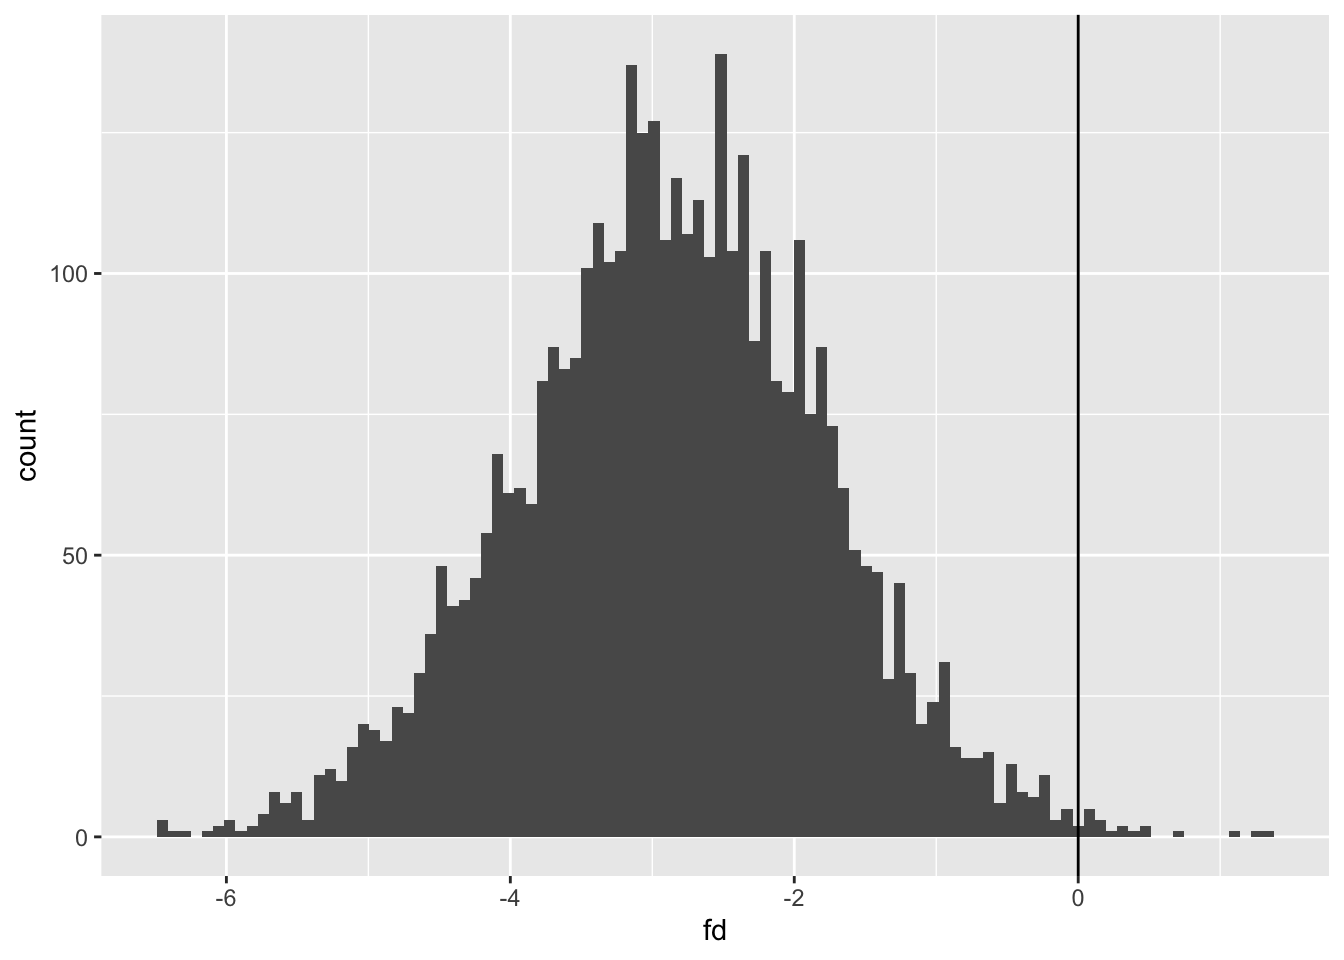
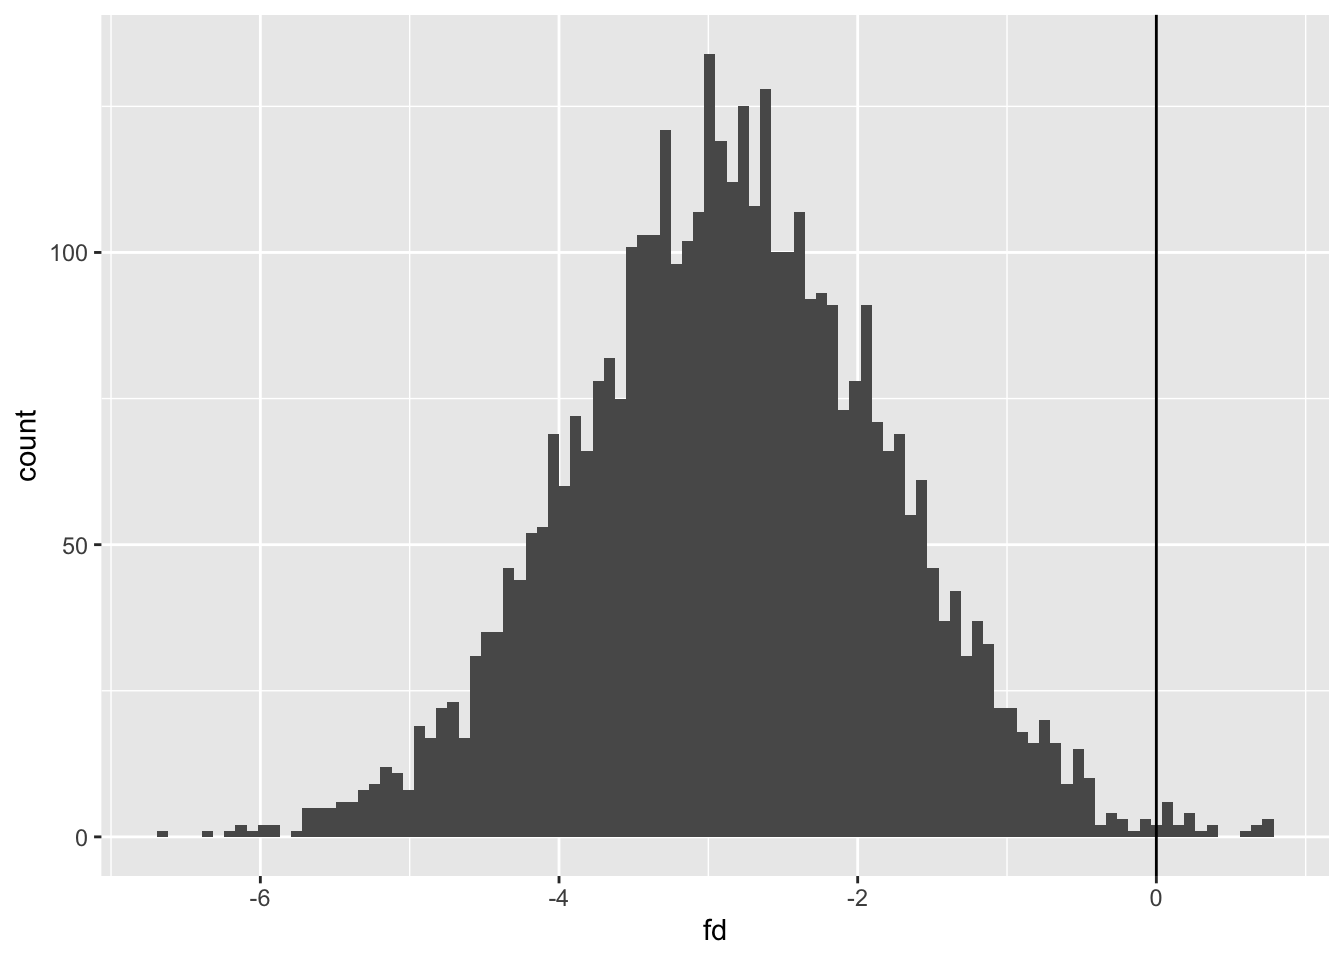
Built site for gh-pages

diff --git a/posts/glms/lms-are-glms-part-13/index.html b/posts/glms/lms-are-glms-part-13/index.html
@@ -234,7 +234,7 @@ pre > code.sourceCode > span > a:first-child::before { text-decoration: underlin
 <h2 class="anchored" data-anchor-id="on-marbles-and-jumping-beans">On marbles and jumping beans</h2>
 <p><a href="../../../posts/glms/lms-are-glms-part-05/index.html">Post five</a> introduced Bayes’ Rule and the Likelihood axiom. It pointed out that, at heart, Bayes’ Rule is a way of expressing <strong>that</strong> given <strong>this</strong> in terms of <strong>this</strong> given <strong>that</strong>; and that Likelihood is also a claim about how <strong>that</strong> given <strong>this</strong> relates to <strong>this</strong> given <strong>that</strong>. More specifically, the claim of Likelihood is:</p>
 <blockquote class="blockquote">
-<p>The likelihood of the model given the data is proportional to the likelihood of the data given the model.</p>
+<p>The likelihood of the model given the data is proportional to the probability of the data given the model.</p>
 </blockquote>
 <p>There are two aspects to the model: firstly its <em>structure</em>; secondly its <em>parameters</em>. The structure includes the type of statistical model - whether it is a standard linear regression, negative binomial regression, logistic regression, Poisson regression model and so on - and also the specific types of columns from the dataset selected as either predictor variables (<span class="math inline">\(X\)</span>) or response variables (<span class="math inline">\(Y\)</span>). It is only after both the higher level structure of the model family, and the lower level structure of the data inputs (what’s being regressed on what?) have been decided that the Likelihood theory is used.</p>
 <p>And how is Likelihood theory used? Well, it defines a <em>landscape</em> over which an algorithm searches. This landscape has as many dimensions as there are parameters to fit. Where there are just two parameters, <span class="math inline">\(\beta_0\)</span> and <span class="math inline">\(\beta_1\)</span> to fit, we can visualise this landscape using something like a contour plot, with <span class="math inline">\(\beta_0\)</span> as latitude, <span class="math inline">\(\beta_1\)</span> as longitude, and the likelihood at this position its elevation or depth. Each possible joint value <span class="math inline">\(\beta = \{\beta_0, \beta_1\}\)</span> which the algorithm might wish to propose leads to a different long-lat coordinate over the surface, and each coordinate has a different elevation or depth. Although we can’t see beyond three dimensions (latitude, longitude, and elevation/depth), mathematics has no problem extending the concept of multidimensional space into far more dimensions than we can see or meaningfully comprehenend. If a model has ten parameters to fit, for example, the likelihood search space really is ten dimensional, and so on.</p>
@@ -353,8 +353,8 @@ F-statistic:  64.5 on 3 and 56 DF,  p-value: &lt; 2.2e-16</code></pre>
 <pre><code>
 SAMPLING FOR MODEL 'continuous' NOW (CHAIN 1).
 Chain 1: 
-Chain 1: Gradient evaluation took 4.2e-05 seconds
-Chain 1: 1000 transitions using 10 leapfrog steps per transition would take 0.42 seconds.
+Chain 1: Gradient evaluation took 0.000898 seconds
+Chain 1: 1000 transitions using 10 leapfrog steps per transition would take 8.98 seconds.
 Chain 1: Adjust your expectations accordingly!
 Chain 1: 
 Chain 1: 
@@ -371,15 +371,15 @@ Chain 1: Iteration: 1600 / 2000 [ 80%]  (Sampling)
 Chain 1: Iteration: 1800 / 2000 [ 90%]  (Sampling)
 Chain 1: Iteration: 2000 / 2000 [100%]  (Sampling)
 Chain 1: 
-Chain 1:  Elapsed Time: 0.037 seconds (Warm-up)
-Chain 1:                0.037 seconds (Sampling)
-Chain 1:                0.074 seconds (Total)
+Chain 1:  Elapsed Time: 0.031 seconds (Warm-up)
+Chain 1:                0.032 seconds (Sampling)
+Chain 1:                0.063 seconds (Total)
 Chain 1: 
 
 SAMPLING FOR MODEL 'continuous' NOW (CHAIN 2).
 Chain 2: 
-Chain 2: Gradient evaluation took 7e-06 seconds
-Chain 2: 1000 transitions using 10 leapfrog steps per transition would take 0.07 seconds.
+Chain 2: Gradient evaluation took 5e-06 seconds
+Chain 2: 1000 transitions using 10 leapfrog steps per transition would take 0.05 seconds.
 Chain 2: Adjust your expectations accordingly!
 Chain 2: 
 Chain 2: 
@@ -396,15 +396,15 @@ Chain 2: Iteration: 1600 / 2000 [ 80%]  (Sampling)
 Chain 2: Iteration: 1800 / 2000 [ 90%]  (Sampling)
 Chain 2: Iteration: 2000 / 2000 [100%]  (Sampling)
 Chain 2: 
-Chain 2:  Elapsed Time: 0.034 seconds (Warm-up)
-Chain 2:                0.03 seconds (Sampling)
-Chain 2:                0.064 seconds (Total)
+Chain 2:  Elapsed Time: 0.032 seconds (Warm-up)
+Chain 2:                0.034 seconds (Sampling)
+Chain 2:                0.066 seconds (Total)
 Chain 2: 
 
 SAMPLING FOR MODEL 'continuous' NOW (CHAIN 3).
 Chain 3: 
-Chain 3: Gradient evaluation took 7e-06 seconds
-Chain 3: 1000 transitions using 10 leapfrog steps per transition would take 0.07 seconds.
+Chain 3: Gradient evaluation took 3e-06 seconds
+Chain 3: 1000 transitions using 10 leapfrog steps per transition would take 0.03 seconds.
 Chain 3: Adjust your expectations accordingly!
 Chain 3: 
 Chain 3: 
@@ -421,15 +421,15 @@ Chain 3: Iteration: 1600 / 2000 [ 80%]  (Sampling)
 Chain 3: Iteration: 1800 / 2000 [ 90%]  (Sampling)
 Chain 3: Iteration: 2000 / 2000 [100%]  (Sampling)
 Chain 3: 
-Chain 3:  Elapsed Time: 0.03 seconds (Warm-up)
-Chain 3:                0.029 seconds (Sampling)
-Chain 3:                0.059 seconds (Total)
+Chain 3:  Elapsed Time: 0.032 seconds (Warm-up)
+Chain 3:                0.031 seconds (Sampling)
+Chain 3:                0.063 seconds (Total)
 Chain 3: 
 
 SAMPLING FOR MODEL 'continuous' NOW (CHAIN 4).
 Chain 4: 
-Chain 4: Gradient evaluation took 1.1e-05 seconds
-Chain 4: 1000 transitions using 10 leapfrog steps per transition would take 0.11 seconds.
+Chain 4: Gradient evaluation took 5e-06 seconds
+Chain 4: 1000 transitions using 10 leapfrog steps per transition would take 0.05 seconds.
 Chain 4: Adjust your expectations accordingly!
 Chain 4: 
 Chain 4: 
@@ -446,9 +446,9 @@ Chain 4: Iteration: 1600 / 2000 [ 80%]  (Sampling)
 Chain 4: Iteration: 1800 / 2000 [ 90%]  (Sampling)
 Chain 4: Iteration: 2000 / 2000 [100%]  (Sampling)
 Chain 4: 
-Chain 4:  Elapsed Time: 0.03 seconds (Warm-up)
-Chain 4:                0.036 seconds (Sampling)
-Chain 4:                0.066 seconds (Total)
+Chain 4:  Elapsed Time: 0.033 seconds (Warm-up)
+Chain 4:                0.031 seconds (Sampling)
+Chain 4:                0.064 seconds (Total)
 Chain 4: </code></pre>
 </div>
 <details>
@@ -470,26 +470,26 @@ Model Info:
 Estimates:
                    mean   sd   10%   50%   90%
 (Intercept)      20.7    0.7 19.8  20.7  21.6 
-log(dose)         9.3    1.3  7.7   9.3  10.9 
-suppVC           -3.7    1.0 -5.0  -3.7  -2.5 
-log(dose):suppVC  3.8    1.8  1.5   3.8   6.1 
-sigma             3.8    0.4  3.3   3.8   4.3 
+log(dose)         9.3    1.2  7.7   9.3  10.8 
+suppVC           -3.7    1.0 -4.9  -3.7  -2.5 
+log(dose):suppVC  3.8    1.7  1.6   3.8   6.0 
+sigma             3.8    0.4  3.4   3.8   4.3 
 
 Fit Diagnostics:
            mean   sd   10%   50%   90%
-mean_PPD 18.8    0.7 18.0  18.8  19.7 
+mean_PPD 18.8    0.7 17.9  18.8  19.7 
 
 The mean_ppd is the sample average posterior predictive distribution of the outcome variable (for details see help('summary.stanreg')).
 
 MCMC diagnostics
                  mcse Rhat n_eff
-(Intercept)      0.0  1.0  3497 
-log(dose)        0.0  1.0  2271 
-suppVC           0.0  1.0  3518 
-log(dose):suppVC 0.0  1.0  2228 
-sigma            0.0  1.0  3287 
-mean_PPD         0.0  1.0  3814 
-log-posterior    0.0  1.0  1532 
+(Intercept)      0.0  1.0  3518 
+log(dose)        0.0  1.0  2362 
+suppVC           0.0  1.0  3357 
+log(dose):suppVC 0.0  1.0  2237 
+sigma            0.0  1.0  2919 
+mean_PPD         0.0  1.0  3978 
+log-posterior    0.0  1.0  1646 
 
 For each parameter, mcse is Monte Carlo standard error, n_eff is a crude measure of effective sample size, and Rhat is the potential scale reduction factor on split chains (at convergence Rhat=1).</code></pre>
 </div>
@@ -523,12 +523,12 @@ For each parameter, mcse is Monte Carlo standard error, n_eff is a crude measure
 </details>
 <div class="cell-output cell-output-stdout">
 <pre><code>            1
-[1,] 20.77221
-[2,] 18.83305
-[3,] 21.98316
-[4,] 22.32233
-[5,] 26.07635
-[6,] 24.27471</code></pre>
+[1,] 19.21064
+[2,] 25.45747
+[3,] 26.41099
+[4,] 25.14948
+[5,] 22.36921
+[6,] 24.17799</code></pre>
 </div>
 <details>
 <summary>Code</summary>
@@ -567,7 +567,7 @@ For each parameter, mcse is Monte Carlo standard error, n_eff is a crude measure
 <p><img src="index_files/figure-html/unnamed-chunk-5-1.png" class="img-fluid" width="672"></p>
 </div>
 </div>
-<p>The darker-shaded parts of the histogram show the 95% uncertainty interval, and the blue vertical line the median estimate. This 95% interval range is 15.43 to 30.43.</p>
+<p>The darker-shaded parts of the histogram show the 95% uncertainty interval, and the blue vertical line the median estimate. This 95% interval range is 15.05 to 30.58.</p>
 <p>Remember we previously estimated both the <em>expected values</em> and the <em>predicted values</em> for this condition. Our 95% range for the <em>expected values</em> were <code>20.27</code> to <code>24.19</code> (or thereabouts), whereas our 95% range for the <em>predicted values</em> were (by design) wider, at <code>15.34</code> to <code>30.11</code>. The 95% uncertainty interval above is therefore of <em>predicted values</em>, which include fundamental variation due to the ancillary parameters <span class="math inline">\(\sigma\)</span>, rather than <em>expected values</em>, which result from parameter uncertainty alone.</p>
 <p>There are a couple of other functions in <code>rstanarm</code> we can look at: <code>predictive_error()</code> and <code>predictive_interval()</code></p>
 <p>First here’s <code>predictive_interval</code>. It is a convenience function that the posterior distribution generated previously, <code>predictions</code>, and returns an uncertainty interval:</p>
@@ -580,7 +580,7 @@ For each parameter, mcse is Monte Carlo standard error, n_eff is a crude measure
 </details>
 <div class="cell-output cell-output-stdout">
 <pre><code>        5%      95%
-1 16.69349 29.05531</code></pre>
+1 16.23789 29.12007</code></pre>
 </div>
 </div>
 <p>We can see by default the intervals returned are from 5% to 95%, i.e.&nbsp;are the 90% intervals rather than the 95% intervals considered previously. We can change the intervals requested with the <code>prob</code> argument:</p>
@@ -593,8 +593,8 @@ For each parameter, mcse is Monte Carlo standard error, n_eff is a crude measure
 <span id="cb17-4"><a href="#cb17-4" aria-hidden="true" tabindex="-1"></a>)</span></code><button title="Copy to Clipboard" class="code-copy-button"><i class="bi"></i></button></pre></div>
 </details>
 <div class="cell-output cell-output-stdout">
-<pre><code>     2.5%    97.5%
-1 15.4265 30.43036</code></pre>
+<pre><code>      2.5%   97.5%
+1 15.04618 30.5805</code></pre>
 </div>
 </div>
 <p>As expected, this requested interval returns an interval closer to (but not identical to) the interval estimated using the quantile function.</p>
@@ -610,7 +610,7 @@ For each parameter, mcse is Monte Carlo standard error, n_eff is a crude measure
 </details>
 <div class="cell-output cell-output-stdout">
 <pre><code>      2.5%    97.5%
-1 15.11731 30.55786</code></pre>
+1 15.03094 30.19958</code></pre>
 </div>
 </div>
 <p>Yes. This approach works too. The values aren’t identical as, no doubt, a more sophisticated approach is used by <code>predictive_interval</code> to estimate the interval than simply arranging the posterior estimates in order using <code>quantile</code>.</p>
@@ -629,7 +629,7 @@ For each parameter, mcse is Monte Carlo standard error, n_eff is a crude measure
 </details>
 <div class="cell-output cell-output-stdout">
 <pre><code>    2.5%      50%    97.5% 
-21.28523 22.76868 24.18860 </code></pre>
+21.21876 22.73040 24.21310 </code></pre>
 </div>
 </div>
 <p>For comparison, the expected value 95% interval we obtained from the Frequentist model was 21.3 to 24.2 when drawing from the quasi-posterior distribution, and 22.7 to 24.2 when using the <code>predict()</code> function with the <code>interval</code> argument set to <code>"confidence"</code>.</p>
@@ -651,12 +651,12 @@ For each parameter, mcse is Monte Carlo standard error, n_eff is a crude measure
 </details>
 <div class="cell-output cell-output-stdout">
 <pre><code>            1        2
-[1,] 17.93171 16.86254
-[2,] 24.39394 23.92767
-[3,] 18.56057 18.35896
-[4,] 26.48170 15.89969
-[5,] 28.02787 24.13167
-[6,] 23.31118 24.31465</code></pre>
+[1,] 26.56821 11.24285
+[2,] 25.06455 13.14789
+[3,] 17.89908 19.18774
+[4,] 21.42328 23.06747
+[5,] 24.01504 25.29607
+[6,] 16.55644 25.65109</code></pre>
 </div>
 </div>
 <p>The <code>newdata</code> argument to posterior_predict now has two rows, one for the OJ supplement and the other for the VC supplement scenario. And the predictions matrix returned by <code>posterior_predict</code> now has two columns: one for each scenario (row) in <code>predictors_fd</code>. We can look at the distribution of both of these columns, as well as the rowwise comparisions between columns, which will give our distribution of first differences for the <em>predicted</em> values:</p>
@@ -702,7 +702,7 @@ For each parameter, mcse is Monte Carlo standard error, n_eff is a crude measure
 </details>
 <div class="cell-output cell-output-stdout">
 <pre><code>      2.5%        50%      97.5% 
--13.408757  -2.840162   7.735231 </code></pre>
+-13.912144  -2.980828   7.950461 </code></pre>
 </div>
 </div>
 <p>The 95% intervals for first differences in <em>predicted</em> values is from -13.6 to +7.9, with the median estimate at -3.0. As expected, the median is similar to the equivalent value from using expected values (-2.9) but the range is wider.</p>
@@ -720,12 +720,12 @@ For each parameter, mcse is Monte Carlo standard error, n_eff is a crude measure
 <div class="cell-output cell-output-stdout">
 <pre><code>          
 iterations        1        2
-      [1,] 21.61327 19.65342
-      [2,] 22.93263 20.08664
-      [3,] 22.13452 20.23250
-      [4,] 22.72122 19.53675
-      [5,] 22.99010 18.95640
-      [6,] 22.93655 20.92789</code></pre>
+      [1,] 22.00406 19.74149
+      [2,] 21.73480 18.47468
+      [3,] 23.57842 20.16130
+      [4,] 23.42395 18.53456
+      [5,] 22.46223 20.05998
+      [6,] 23.07494 19.96308</code></pre>
 </div>
 </div>
 <div class="cell">
@@ -768,8 +768,8 @@ iterations        1        2
 <div class="sourceCode cell-code" id="cb33"><pre class="sourceCode r code-with-copy"><code class="sourceCode r"><span id="cb33-1"><a href="#cb33-1" aria-hidden="true" tabindex="-1"></a><span class="fu">quantile</span>(preds_fd_df_ev<span class="sc">$</span>fd, <span class="at">probs =</span> <span class="fu">c</span>(<span class="fl">0.025</span>, <span class="fl">0.500</span>, <span class="fl">0.975</span>))</span></code><button title="Copy to Clipboard" class="code-copy-button"><i class="bi"></i></button></pre></div>
 </details>
 <div class="cell-output cell-output-stdout">
-<pre><code>     2.5%       50%     97.5% 
--5.020744 -2.859493 -0.738625 </code></pre>
+<pre><code>      2.5%        50%      97.5% 
+-4.9104973 -2.8572241 -0.7550476 </code></pre>
 </div>
 </div>
 <p>We now have a 95% interval for the first difference in expected values of -4.9 to -0.7. By contrast, the equivalent range estimated using the Frequentist model in part 12 was -4.8 to -0.8. So, although they’re not identical, they do seem to be very similar.</p>

diff --git a/index.html b/index.html
@@ -197,7 +197,7 @@ ul.task-list li input[type="checkbox"] {
 
 <div class="quarto-listing quarto-listing-container-default" id="listing-listing">
 <div class="list quarto-listing-default">
-<div class="quarto-post image-right" data-index="0" data-categories="statistics,R" data-listing-date-sort="1707523200000" data-listing-file-modified-sort="1707656005858" data-listing-date-modified-sort="NaN" data-listing-reading-time-sort="21">
+<div class="quarto-post image-right" data-index="0" data-categories="statistics,R" data-listing-date-sort="1707523200000" data-listing-file-modified-sort="1707670181125" data-listing-date-modified-sort="NaN" data-listing-reading-time-sort="21">
 <div class="thumbnail">
 <p><a href="./posts/glms/lms-are-glms-part-13/index.html"> <p class="card-img-top"><img src="posts/glms/lms-are-glms-part-13/index_files/figure-html/unnamed-chunk-5-1.png"  class="thumbnail-image card-img"/></p> </a></p>
 </div>

diff --git a/glms.html b/glms.html
@@ -305,7 +305,7 @@ Title
 <a href="./posts/glms/lms-are-glms-part-12/index.html" class="title listing-title">Part Twelve: Honest Predictions the slightly-less easier way</a>
 </td>
 </tr>
-<tr data-index="12" data-categories="statistics,R" data-listing-date-sort="1707523200000" data-listing-file-modified-sort="1707656005858" data-listing-date-modified-sort="NaN" data-listing-reading-time-sort="21" data-listing-title-sort="Part Thirteen: On Marbles and Jumping Beans" data-listing-filename-sort="index.qmd">
+<tr data-index="12" data-categories="statistics,R" data-listing-date-sort="1707523200000" data-listing-file-modified-sort="1707670181125" data-listing-date-modified-sort="NaN" data-listing-reading-time-sort="21" data-listing-title-sort="Part Thirteen: On Marbles and Jumping Beans" data-listing-filename-sort="index.qmd">
 <td>
 <span class="listing-date">Feb 10, 2024</span>
 </td>
